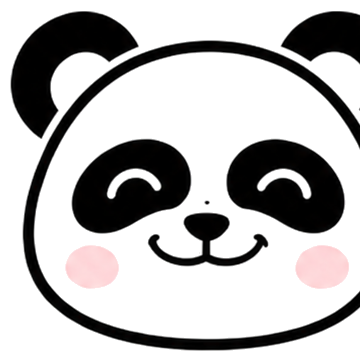
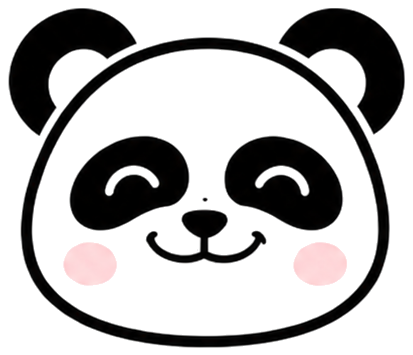
button improve

diff --git a/index.html b/index.html
@@ -314,7 +314,7 @@ color:#fff; font-weight:600; font-size:13px; cursor:pointer;
     gap:2px;
   }
   .home-fab img{
-    width:64px;
+    width:46px;
     height:auto;
     display:block;
     filter:drop-shadow(0 4px 10px rgba(0,0,0,0.25));
@@ -535,7 +535,7 @@ const PRODUCTS = [
     category:'granule',
     name:'土耳其白火山石',
     description:'質輕透氣度好，萬用介質',
-    image:'images/pumice.jpg',
+    images:['images/pumice.jpg', 'images/pumice2.jpg'],
     unit:'25kg 包',
     variants:[
       { label:'1-4mm',   basePrice:400, discounts:{ TTFF:330, LACS:310, TCGH:325, ESWS:300 } },
